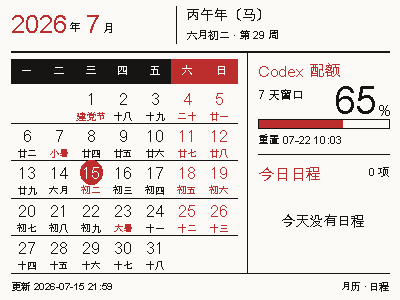
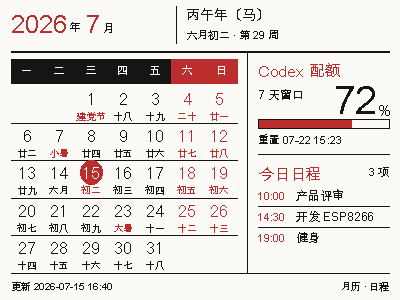
Update website for calendar agenda display

diff --git a/docs/index.html b/docs/index.html
@@ -3,9 +3,10 @@
 <head>
   <meta charset="utf-8">
   <meta name="viewport" content="width=device-width, initial-scale=1">
-  <meta name="description" content="通过 macOS、BLE 和 nRF52811，把 Codex 真实剩余配额显示在 400×300 三色墨水屏上。">
+  <meta name="description" content="通过 macOS、BLE 和 nRF52811，把完整月历、今日日程与 Codex 7 天真实配额显示在 400×300 三色墨水屏上。">
   <meta name="theme-color" content="#f4f1ea">
-  <title>EPD AI 配额屏｜桌面上的 Codex 状态看板</title>
+  <link rel="icon" href="favicon.png" type="image/png">
+  <title>EPD AI 配额屏｜月历、日程与 Codex 配额常驻桌面</title>
   <style>
     :root {
       --paper: #f4f1ea;
@@ -255,6 +256,39 @@
     .feature-card h3 { margin: 0 0 12px; font-size: 24px; letter-spacing: -.03em; }
     .feature-card p { margin: 0; color: var(--muted); font-size: 14px; line-height: 1.75; }
 
+    .mini-calendar { width: 100%; }
+    .mini-calendar-head { display: flex; justify-content: space-between; align-items: baseline; margin-bottom: 12px; }
+    .mini-calendar-head strong { font-size: 24px; letter-spacing: -.05em; }
+    .mini-calendar-head span { color: var(--red); font: 720 10px/1 ui-monospace, SFMono-Regular, Menlo, monospace; }
+    .mini-calendar-grid { display: grid; grid-template-columns: repeat(7, 1fr); gap: 4px; }
+    .mini-calendar-grid i { height: 17px; display: grid; place-items: center; color: #57534c; font: normal 700 8px/1 ui-monospace, SFMono-Regular, Menlo, monospace; }
+    .mini-calendar-grid i:nth-child(6), .mini-calendar-grid i:nth-child(7), .mini-calendar-grid i:nth-child(13), .mini-calendar-grid i:nth-child(14) { color: var(--red); }
+    .mini-calendar-grid i.today { border-radius: 50%; background: var(--red); color: white; }
+
+    .mode-grid { display: grid; grid-template-columns: 1.15fr 1fr 1fr; gap: 18px; align-items: stretch; }
+    .mode-card {
+      min-width: 0;
+      display: flex;
+      flex-direction: column;
+      justify-content: space-between;
+      gap: 26px;
+      padding: 28px;
+      border: 1px solid var(--line);
+      border-radius: 20px;
+      background: rgba(255,253,248,.45);
+      overflow: hidden;
+    }
+    .mode-card-primary { padding: 30px; background: var(--ink); color: var(--white); }
+    .mode-card-head { display: flex; justify-content: space-between; gap: 18px; align-items: start; }
+    .mode-card h3 { margin: 8px 0 0; font-size: 25px; letter-spacing: -.035em; }
+    .mode-card p { margin: 12px 0 0; color: var(--muted); font-size: 14px; line-height: 1.72; }
+    .mode-card-primary p { color: #aaa49b; }
+    .mode-tag { flex: none; padding: 7px 9px; border: 1px solid currentColor; color: var(--red); font: 720 9px/1 ui-monospace, SFMono-Regular, Menlo, monospace; letter-spacing: .08em; transform: rotate(1.5deg); }
+    .mode-card-primary .mode-tag { color: #f0b8b8; }
+    .mode-screen { padding: 11px; border-radius: 7px; background: #242321; box-shadow: 0 18px 36px rgba(28,25,21,.18); }
+    .mode-screen img { width: 100%; aspect-ratio: 4 / 3; object-fit: cover; background: #f7f5ef; }
+    .mode-card-primary .mode-screen { padding: 15px; box-shadow: 0 26px 52px rgba(0,0,0,.28); }
+
     .architecture {
       display: grid;
       grid-template-columns: 1.05fr .95fr;
@@ -358,6 +392,8 @@
       .device-stage { min-height: 480px; }
       .feature-grid { grid-template-columns: 1fr; }
       .feature-card { min-height: 280px; }
+      .mode-grid { grid-template-columns: 1fr; grid-template-rows: none; }
+      .mode-card-primary { grid-row: auto; }
       .architecture, .setup-wrap { grid-template-columns: 1fr; }
       .setup-wrap { gap: 46px; }
       .opensource { grid-template-columns: 1fr; align-items: start; padding: 46px; }
@@ -381,6 +417,7 @@
       .section { padding: 82px 0; }
       .section-head { margin-bottom: 38px; }
       .feature-card, .flow, .principle { padding: 24px; }
+      .mode-card, .mode-card-primary { padding: 24px; }
       .opensource { padding: 38px 26px; border-radius: 18px; }
       .opensource::after { font-size: 62px; }
       .footer-inner { flex-direction: column; }
@@ -402,6 +439,7 @@
       </a>
       <nav class="nav-links" aria-label="主导航">
         <a href="#features">功能</a>
+        <a href="#modes">样式</a>
         <a href="#how">原理</a>
         <a href="#setup">安装</a>
         <a class="nav-github" href="https://github.com/askfanxiaojun/epd-ai-quota-display">GitHub</a>
@@ -413,23 +451,23 @@
     <section class="shell hero" data-screen-label="项目首屏">
       <div data-reveal>
         <p class="kicker">nRF52811 · BLE · E-INK</p>
-        <h1>把 AI 配额，<br><em>留在桌面上。</em></h1>
-        <p class="hero-copy">一块闲置的三色电子价签，实时显示 Codex 的 5 小时与 7 天剩余配额。Mac 自动读取本地登录状态、生成画面，再通过蓝牙写入墨水屏。</p>
+        <h1>把今天，<br><em>留在桌面上。</em></h1>
+        <p class="hero-copy">让一块闲置的三色电子价签，同时显示完整月历、阴历节气、Mac 今日日程与 Codex 7 天真实剩余配额。信息变化时才通过蓝牙刷新，不打扰，也不常亮。</p>
         <div class="actions">
           <a class="button button-primary" href="#setup"><span>开始搭建</span><span class="arrow">↓</span></a>
           <a class="button button-secondary" href="https://github.com/askfanxiaojun/epd-ai-quota-display"><span>查看源代码</span><span class="arrow">↗</span></a>
         </div>
         <div class="fact-row" aria-label="项目特点">
-          <span>真实配额</span>
-          <span>无需额外 API Key</span>
-          <span>每 30 分钟更新</span>
-          <span>完全开源</span>
+          <span>完整月历与阴历</span>
+          <span>Codex 7 天真实配额</span>
+          <span>读取 Mac 今日日程</span>
+          <span>无变化不刷新</span>
         </div>
       </div>
 
       <div class="device-stage" data-reveal>
         <div class="device" aria-label="400×300 三色墨水屏效果图">
-          <div class="screen-bezel"><img src="assets/quota-display-preview.png" alt="墨水屏显示 Codex 与 Claude Code 配额面板"></div>
+          <div class="screen-bezel"><img src="assets/calendar-agenda-preview.png" alt="墨水屏显示完整月历、今日日程与 Codex 7 天配额"></div>
           <div class="device-label"><span>NRF_EPD_0819</span><span>4.7 INCH</span></div>
         </div>
         <div class="signal"><i aria-hidden="true"></i><span>BLE CONNECTED</span></div>
@@ -440,34 +478,64 @@
       <div class="shell">
         <div class="section-head" data-reveal>
           <p class="eyebrow">它解决什么</p>
-          <h2>不用打开网页，抬眼就知道还剩多少。</h2>
-          <p class="section-lead">配额本来藏在命令行和账号接口里。这个项目把它变成桌面上的常驻信息：安静、低功耗，也不需要另一块持续发光的屏幕。</p>
+          <h2>日期、安排和配额，抬眼一次看完。</h2>
+          <p class="section-lead">它不再只是一块配额屏。月历保留节日、节气、阴历和周末标记；右侧同时放进今天的日程与 Codex 周配额，让真正需要频繁确认的信息安静地留在桌面上。</p>
         </div>
 
         <div class="feature-grid">
           <article class="feature-card" data-reveal>
-            <span class="card-index">01 / QUOTA</span>
+            <span class="card-index">01 / CALENDAR</span>
+            <div class="feature-visual">
+              <div class="mini-calendar" aria-hidden="true">
+                <div class="mini-calendar-head"><strong>2026 · 07</strong><span>丙午年</span></div>
+                <div class="mini-calendar-grid"><i>一</i><i>二</i><i>三</i><i>四</i><i>五</i><i>六</i><i>日</i><i>13</i><i>14</i><i class="today">15</i><i>16</i><i>17</i><i>18</i><i>19</i></div>
+              </div>
+            </div>
+            <div><h3>保留完整月历信息</h3><p>显示阴历、节日、二十四节气、周末红色与休班标记，并针对 5 行和 6 行月份自动调整字号。</p></div>
+          </article>
+
+          <article class="feature-card" data-reveal>
+            <span class="card-index">02 / QUOTA + AGENDA</span>
             <div class="feature-visual">
               <div class="mini-meter">
                 <div class="mini-meter-row"><span>7 DAYS LEFT</span><strong>76%</strong></div>
                 <div class="mini-track"><span></span></div>
               </div>
             </div>
-            <div><h3>读取真实剩余量</h3><p>复用 Codex CLI 已有的 ChatGPT OAuth 会话，读取 5 小时和 7 天窗口，并显示重置时间，不做本地估算。</p></div>
-          </article>
-
-          <article class="feature-card" data-reveal>
-            <span class="card-index">02 / RENDER</span>
-            <div class="feature-visual">
-              <div class="plane-stack" aria-hidden="true"><span class="plane"></span><span class="plane"></span></div>
-            </div>
-            <div><h3>黑、红双图层</h3><p>Mac 使用 Pillow 把页面渲染为两个 15,000 字节的 1-bit 图层，再按固件协议传给 SSD1619 三色屏。</p></div>
+            <div><h3>真实配额与今日日程</h3><p>复用 Codex 已有登录读取 7 天剩余量，同时只读获取 macOS Calendar 今天的事件，不保存新的密钥。</p></div>
           </article>
 
           <article class="feature-card" data-reveal>
             <span class="card-index">03 / AUTOMATION</span>
             <div class="feature-visual"><div class="clock-face">30m</div></div>
-            <div><h3>后台自动更新</h3><p>使用 macOS 原生 launchd，每 30 分钟刷新一次。无需常驻 Terminal，也不需要额外安装桌面 App。</p></div>
+            <div><h3>安全的后台自动更新</h3><p>launchd 每 30 分钟检查一次；可见内容没有变化就跳过。BLE 中断时不预先清屏，并自动重试一次完整图层。</p></div>
+          </article>
+        </div>
+      </div>
+    </section>
+
+    <section class="section" id="modes">
+      <div class="shell">
+        <div class="section-head" data-reveal>
+          <p class="eyebrow">三种显示模式</p>
+          <h2>同一块屏幕，切换三种信息视图。</h2>
+          <p class="section-lead">推荐使用月历日程页；旧版纯配额页面完整保留，也可以接入本地实体传感器，切换为月历环境页。</p>
+        </div>
+
+        <div class="mode-grid">
+          <article class="mode-card mode-card-primary" data-reveal>
+            <div class="mode-card-head"><div><span class="card-index">01 / RECOMMENDED</span><h3>月历 · 日程 · Codex 周配额</h3><p>左侧是一整月日期与阴历信息，右侧集中显示 Codex 7 天剩余量和今天的日程，适合作为日常常驻页面。</p></div><span class="mode-tag">推荐</span></div>
+            <div class="mode-screen"><img src="assets/calendar-agenda-preview.png" alt="月历、日程与 Codex 周配额显示模式"></div>
+          </article>
+
+          <article class="mode-card" data-reveal>
+            <div class="mode-card-head"><div><span class="card-index">02 / CLASSIC</span><h3>纯 AI 配额页</h3><p>保留早期大字号进度条布局，适合只关注配额的场景。</p></div><span class="mode-tag">保留</span></div>
+            <div class="mode-screen"><img src="assets/quota-display-preview.png" alt="Codex 与 Claude Code 纯配额显示模式"></div>
+          </article>
+
+          <article class="mode-card" data-reveal>
+            <div class="mode-card-head"><div><span class="card-index">03 / SENSOR</span><h3>月历环境页</h3><p>接入本地实体传感器后，在月历旁显示最近一次实测温湿度。</p></div><span class="mode-tag">可选</span></div>
+            <div class="mode-screen"><img src="assets/calendar-sensor-preview.png" alt="月历与本地温湿度传感器显示模式"></div>
           </article>
         </div>
       </div>
@@ -478,14 +546,14 @@
         <div class="section-head" data-reveal>
           <p class="eyebrow">工作原理</p>
           <h2>Mac 负责思考，电子价签只负责显示。</h2>
-          <p class="section-lead">现有 nRF52811 设备没有 Wi-Fi。把网络请求和图像渲染留在 Mac 上，反而让整个方案更简单，也不需要修改已经稳定工作的 BLE 固件。</p>
+          <p class="section-lead">现有 nRF52811 设备没有 Wi-Fi。把配额请求、日历读取和图像渲染留在 Mac 上，反而让整个方案更简单，也不需要让电子价签直接保存账号信息。</p>
         </div>
 
         <div class="architecture">
           <div class="flow" data-reveal>
             <div class="flow-step"><span class="flow-number">01</span><div class="flow-copy"><small>LOCAL AUTH</small><h3>读取本机 Codex 登录</h3><p>只读取已有 OAuth 会话，不把 token 写入仓库或日志。</p></div></div>
-            <div class="flow-step"><span class="flow-number">02</span><div class="flow-copy"><small>PYTHON + PILLOW</small><h3>生成 400×300 画面</h3><p>计算剩余比例，排版数字、进度条和重置时间。</p></div></div>
-            <div class="flow-step"><span class="flow-number">03</span><div class="flow-copy"><small>CORE BLUETOOTH</small><h3>发送黑色与红色图层</h3><p>使用协商后的 244 字节 MTU，分块写入 nRF52811。</p></div></div>
+            <div class="flow-step"><span class="flow-number">02</span><div class="flow-copy"><small>CALENDAR + PILLOW</small><h3>组合当天信息</h3><p>只读获取今日日程，计算配额，再渲染完整黑色与红色图层。</p></div></div>
+            <div class="flow-step"><span class="flow-number">03</span><div class="flow-copy"><small>CORE BLUETOOTH</small><h3>安全发送完整图层</h3><p>使用 244 字节 MTU 分块写入；不预先清屏，中断后自动重试。</p></div></div>
             <div class="flow-step"><span class="flow-number">04</span><div class="flow-copy"><small>SSD1619</small><h3>刷新并保持画面</h3><p>断开蓝牙后无需持续供电刷新，信息仍留在屏幕上。</p></div></div>
           </div>
 
@@ -504,7 +572,7 @@
           <h2>三步，让它自己更新。</h2>
           <div class="setup-list">
             <div class="setup-item"><span>01</span><div><h3>准备硬件</h3><p>给 nRF52811 电子价签刷入 EPD-nRF5_DYC 固件，并确认广播名以 NRF_EPD 开头。</p></div></div>
-            <div class="setup-item"><span>02</span><div><h3>安装 Python 环境</h3><p>创建虚拟环境并安装 Bleak 与 Pillow。先用 dry-run 生成本地预览。</p></div></div>
+            <div class="setup-item"><span>02</span><div><h3>选择显示模式</h3><p>复制配置模板，选择推荐的 calendar-agenda，先用 dry-run 查看真实数据预览。</p></div></div>
             <div class="setup-item"><span>03</span><div><h3>注册定时任务</h3><p>运行项目提供的安装脚本，launchd 会立即更新一次，此后每 30 分钟执行。</p></div></div>
           </div>
         </div>
@@ -518,7 +586,8 @@
 <span class="comment"># 创建环境并生成预览</span>
 <span class="prompt">$</span> python3 -m venv .venv
 <span class="prompt">$</span> .venv/bin/pip install -r requirements.txt
-<span class="prompt">$</span> .venv/bin/python epd_status.py --dry-run
+<span class="prompt">$</span> cp config.example.json config.json
+<span class="prompt">$</span> .venv/bin/python epd_status.py --mode calendar-agenda --dry-run
 
 <span class="comment"># 安装每 30 分钟自动更新</span>
 <span class="prompt">$</span> chmod +x scripts/*.sh
@@ -532,7 +601,7 @@
     <section class="section">
       <div class="shell">
         <div class="opensource" data-reveal>
-          <div><p class="eyebrow" style="color:#f6caca">完全开源</p><h2>从空白屏排错到定时更新，过程全部公开。</h2><p>仓库包含可运行脚本、中文教程、BLE 协议说明、设计稿、故障排查和真实硬件验证记录。</p></div>
+          <div><p class="eyebrow" style="color:#f6caca">完全开源</p><h2>从一张配额卡，长成桌面信息终端。</h2><p>仓库包含月历与阴历计算、Mac 日程读取、Codex 配额、BLE 安全传输、launchd 自动更新，以及完整中文教程和实屏验证记录。</p></div>
           <a class="button" href="https://github.com/askfanxiaojun/epd-ai-quota-display">在 GitHub 查看 <span>↗</span></a>
         </div>
       </div>